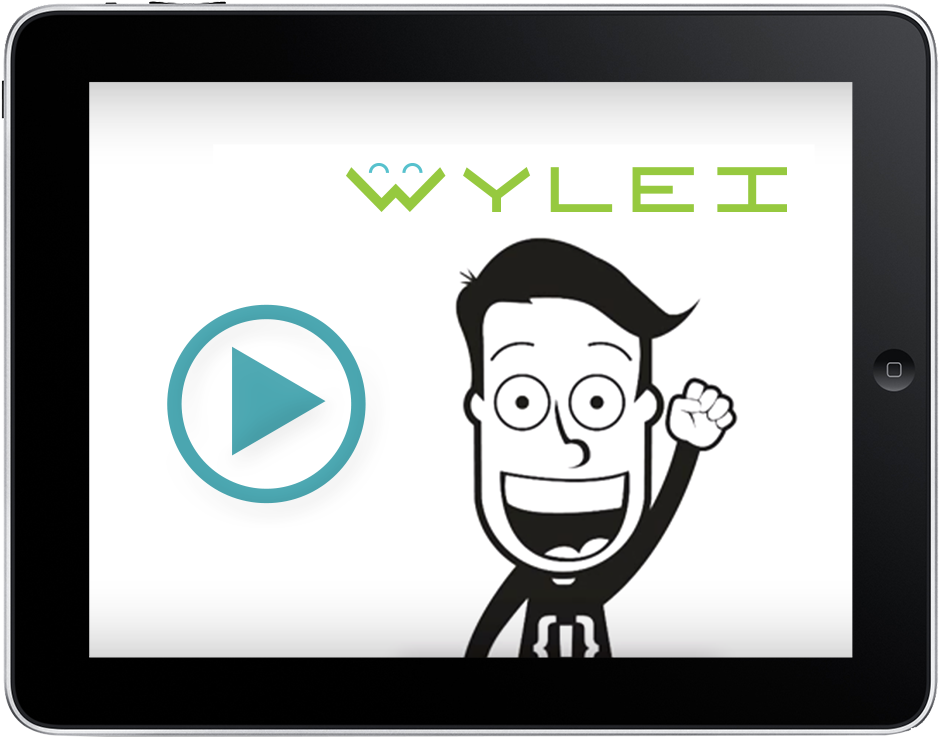
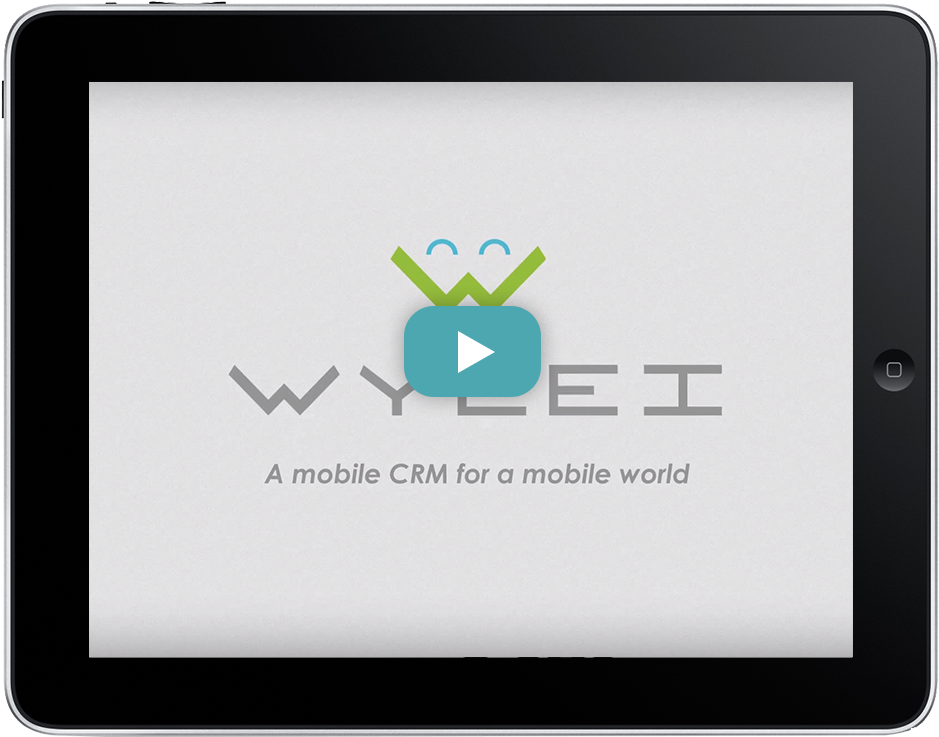
Updated video and image.

diff --git a/index.html b/index.html
@@ -31,7 +31,7 @@
 				<h3 class="text_centered"><em class="text_white">A mobile CRM for a mobile world</em></h3>
 				<img id="video_image" src="images/ipadframe.png" class="centered img-responsive clickable" alt="wylei video">
 				<div id="video_container" class="video_container">
-					<iframe id="wyleivideo" style="z-index: 1000000; width: 100%; height: 100%" src="http://www.youtube.com/embed/4yYLyjMY4FI?autoplay=0"></iframe>
+					<iframe id="wyleivideo" style="z-index: 1000000; width: 100%; height: 100%" src="http://www.youtube.com/embed/bvEfZpLst3k?rel=0&autoplay=0"></iframe>
 				</div>
 			</div>
 		</div>
